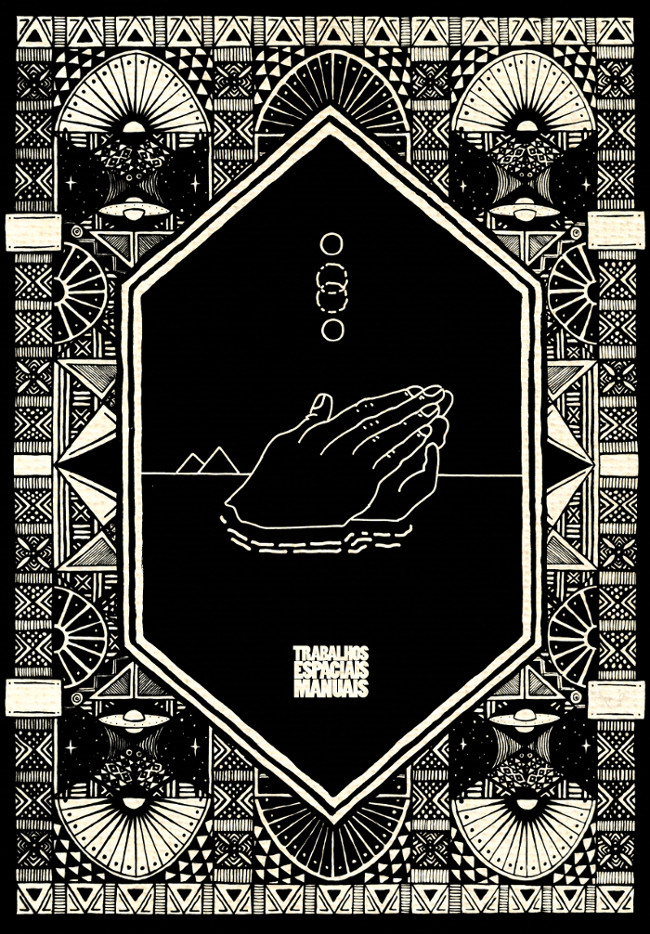
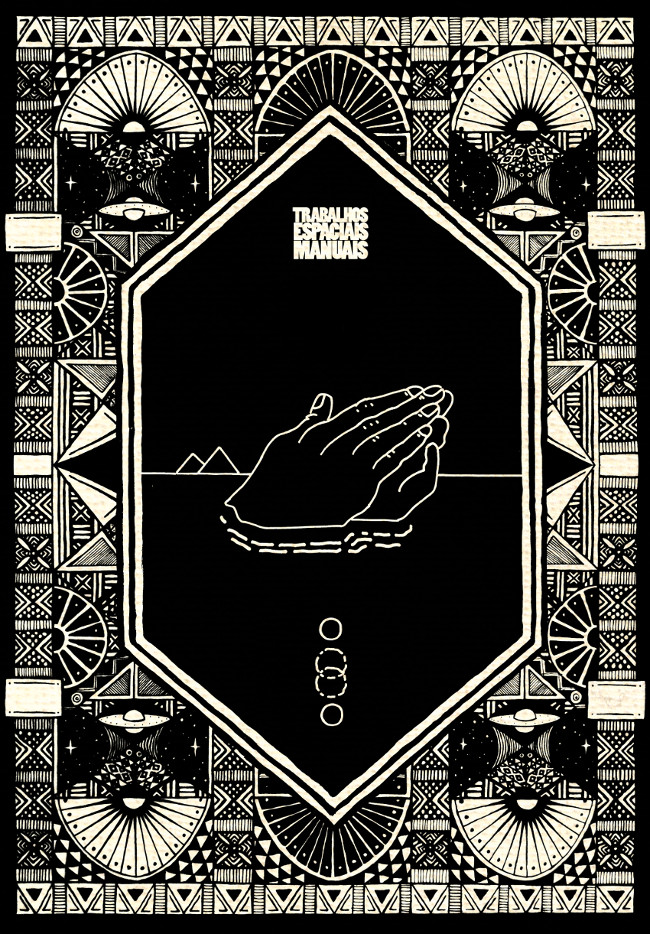
Changed bg image. Added greetings text.

diff --git a/home/templates/index.html b/home/templates/index.html
@@ -73,6 +73,12 @@
     {% block content %}
 
     <div class="main-form-container">
+      <!--
+      <div class="main-logo">
+        <img src="{% static 'img/main-logo.png' %}">
+      </div>
+      -->
+      
       {% if mailform %}
       <form class="form-inline" action="" method="post">
         {% csrf_token %}
@@ -84,7 +90,7 @@
 
         {% if mailform.email.errors %}
         <div class="input-error">
-          {{ mailform.email.errors }}
+          Informe seu e-mail
         </div>
         {% endif %}
 
@@ -92,6 +98,12 @@
       {% else %}
       <a href="/ep/" class="btn btn-primary-outline">Baixar EP</button>
       {% endif %}
+      
+      <div class="greetings">
+        <p>Olá!</p>
+        <p>Agradecemos de coração tua vontade de baixar nosso EP. Isso é fundamental para fortalecer a música independente. Teu e-mail vai ficar numa lista para que a gente possa te comunicar nossa trajetória.</p>
+        <p>Abraços da TEM!</p>
+      </div>
     </div>
 
     {% endblock %}

diff --git a/home/static/css/tem.css b/home/static/css/tem.css
@@ -6,8 +6,24 @@ body {
 }
 
 .main-form-container {
-    padding-top: 10rem;
+    padding-top: 18rem;
     margin: auto;
+}
+
+.main-form-container .main-logo {
+    margin: auto;
+    text-align: center;
+    margin-bottom: 1rem;
+}
+
+.greetings {
+    max-width: 330px;
+    text-align: left;
+    margin: auto;
+    color: #eed;
+    font-size: 0.9rem;
+    padding: 1rem;
+    background: rgba(0,0,0, 0.65);
 }
 
 footer {
@@ -15,10 +31,13 @@ footer {
     right: 0;
     bottom: 0;
     font-size: 9px;
+    color: #888;
 }
 
 .input-error {
     color: white;
+    padding: 0.2rem 0 0 0.2rem;
+    font-size: 14px;
 }
 
 .btn-primary-outline {
@@ -37,6 +56,6 @@ footer {
 @media all and (min-width: 500px) {
     .main-form-container {
       padding-top: 19rem;
-      width: 310px;
+      text-align: center;
     }
 }
